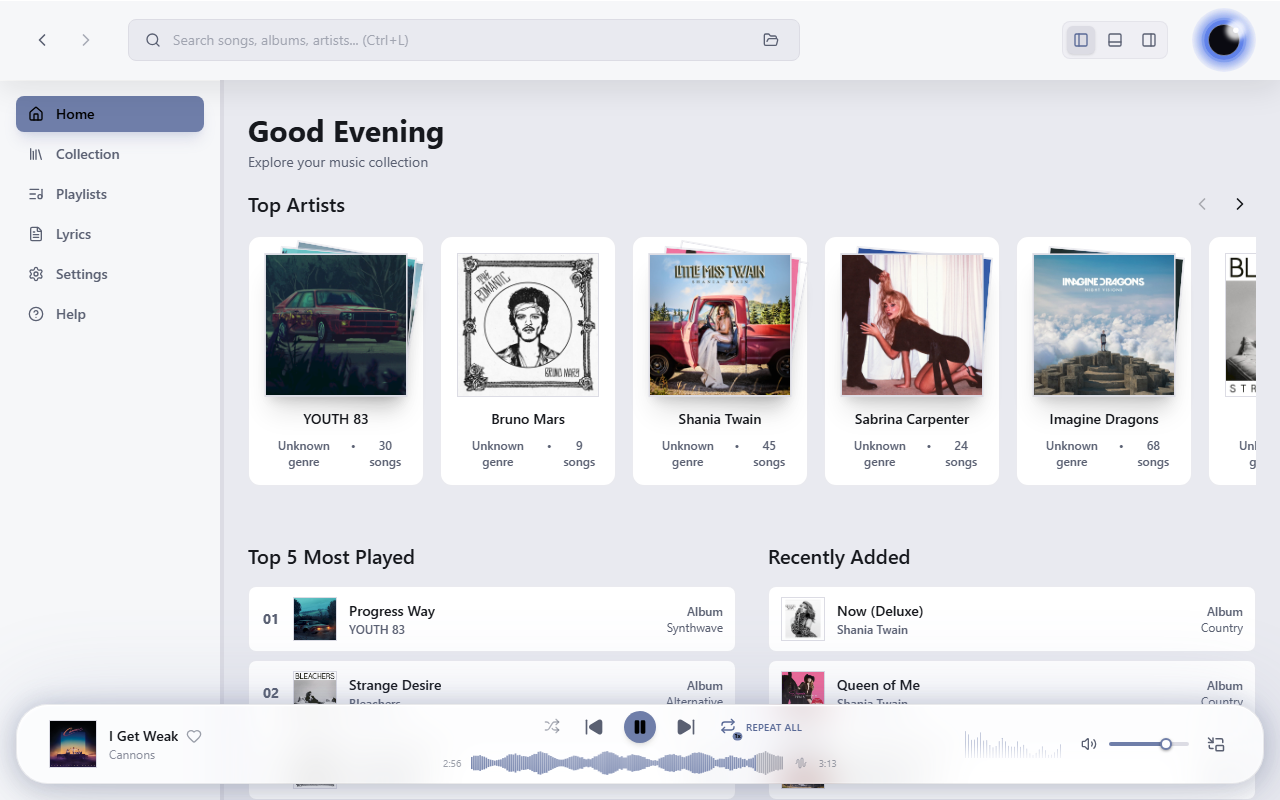
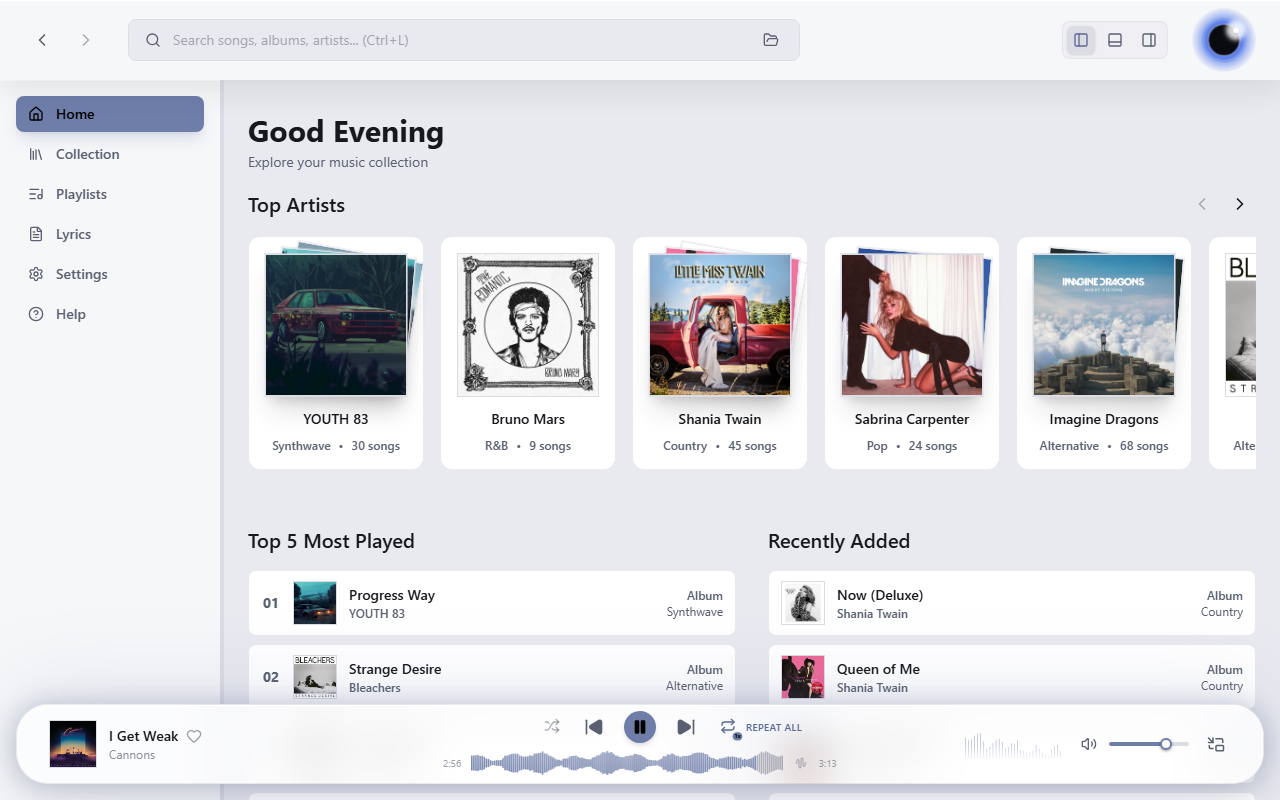
Fix Top Artists carousel showing Unknown genre in screenshot mock
deriveArtists() never set a genre field on ArtistItems, unlike
deriveAlbums(). Compute each artist's most common song genre to
mirror the real backend's get_top_artists query.

diff --git a/scripts/mock-library.ts b/scripts/mock-library.ts
@@ -204,6 +204,7 @@ export function deriveArtists(songs: Song[]): ArtistItem[] {
 
   const fullAlbumsByArtist = new Map<string, Set<string>>();
   const songCountByArtist = new Map<string, number>();
+  const genreCountsByArtist = new Map<string, Map<string, number>>();
   for (const song of songs) {
     const artist = song.album_artist || song.artist;
     if (!artist) continue;
@@ -212,13 +213,26 @@ export function deriveArtists(songs: Song[]): ArtistItem[] {
       if (!fullAlbumsByArtist.has(artist)) fullAlbumsByArtist.set(artist, new Set());
       fullAlbumsByArtist.get(artist)!.add(song.album);
     }
+    if (song.genre) {
+      if (!genreCountsByArtist.has(artist)) genreCountsByArtist.set(artist, new Map());
+      const counts = genreCountsByArtist.get(artist)!;
+      counts.set(song.genre, (counts.get(song.genre) ?? 0) + 1);
+    }
   }
+  // Mirrors the real backend's get_top_artists: the artist's most common
+  // song genre, ties broken alphabetically (src-tauri/src/collection.rs).
+  const topGenre = (artist: string): string | null => {
+    const counts = genreCountsByArtist.get(artist);
+    if (!counts) return null;
+    return [...counts.entries()].sort((a, b) => b[1] - a[1] || a[0].localeCompare(b[0]))[0][0];
+  };
   return [...songCountByArtist.keys()]
     .sort((a, b) => a.localeCompare(b))
     .map((name) => ({
       name,
       album_count: fullAlbumsByArtist.get(name)?.size ?? 0,
       song_count: songCountByArtist.get(name) ?? 0,
+      genre: topGenre(name),
     }));
 }
 
